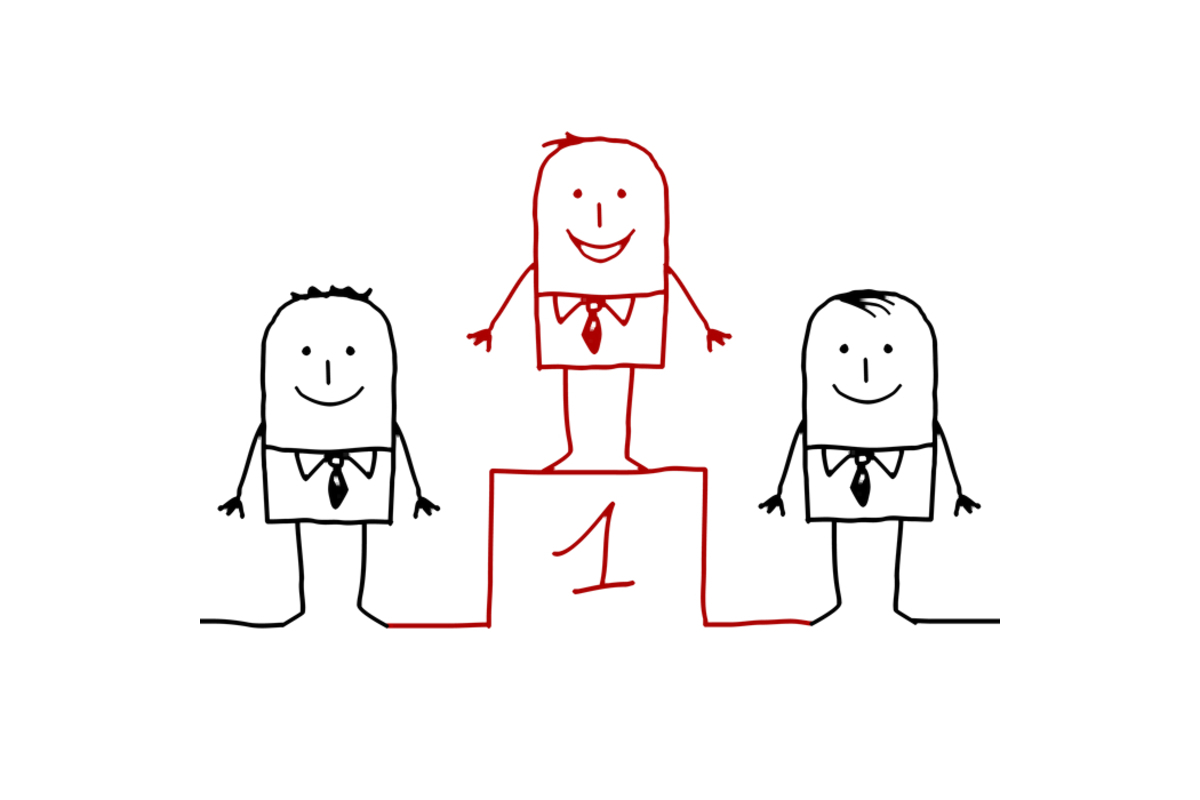
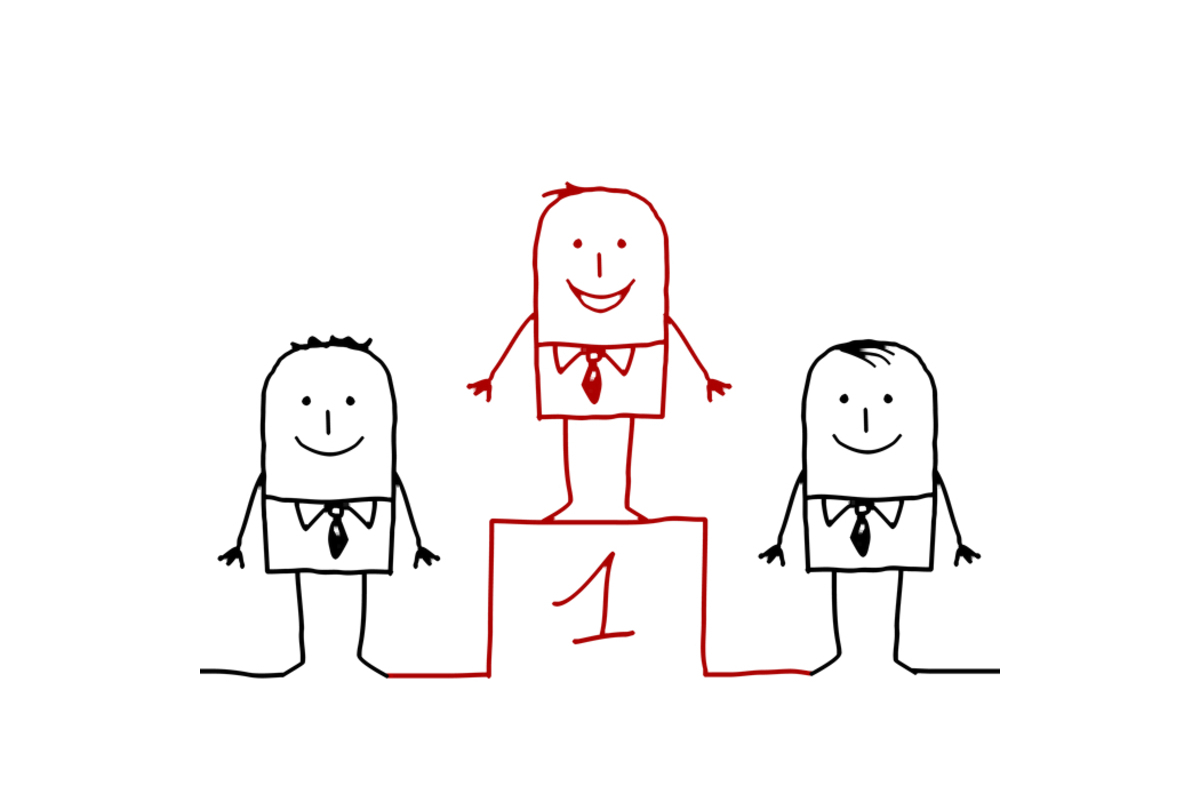
changed service images to cartoons

Changed region(s): [[0.1542, 0.1562, 0.8325, 0.875], [0.2467, 0.3438, 0.3083, 0.375], [0.5858, 0.4688, 0.6167, 0.5]]

diff --git a/_includes/services.html b/_includes/services.html
@@ -10,7 +10,7 @@
             <div class="row text-center">
                 <div class="service-link col-md-4 col-sm-6">
                     <a href="{{ site.baseurl }}/services/training" >
-                        <img src="img/services/training.png" class="img-responsive img-services img-centered" alt="">
+                        <img src="img/services/training_cartoon.jpg" class="img-responsive img-services img-centered" alt="">
                         <div class="service-caption">
                             <p class="service-title">Training<p>
                             <p class="text-muted">Seminars, courses and <br/>customized workshops.</p>
@@ -20,7 +20,7 @@
 
                 <div class="service-link col-md-4 col-sm-6">
                     <a href="{{ site.baseurl }}/services/consulting">
-                        <img src="img/services/consulting.png" class="img-responsive img-services img-centered" alt="">
+                        <img src="img/services/consulting_cartoon.jpg" class="img-responsive img-services img-centered" alt="">
                         <div class="service-caption">
                             <p class="service-title">Consulting<p>
                             <p class="text-muted">Undertaking multi-stakeholder management tasks in the field.</p>
@@ -30,7 +30,7 @@
 
                 <div class="service-link col-md-4 col-sm-6">
                     <a href="{{ site.baseurl }}/services/experience" class="portfolio-link" data-toggle="modal">
-                        <img src="img/services/experience.png" class="img-responsive img-services img-centered" alt="">
+                        <img src="img/services/experience_cartoon.jpg" class="img-responsive img-services img-centered" alt="">
                         <div class="service-caption">
                             <p class="service-title">Experience<p>
                             <p class="text-muted">A portfolio <br/>of successful projects.</p>
